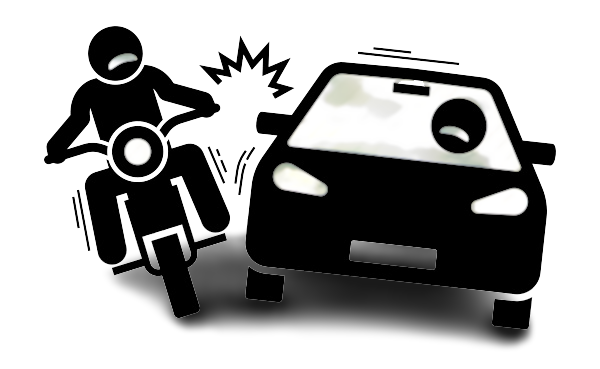
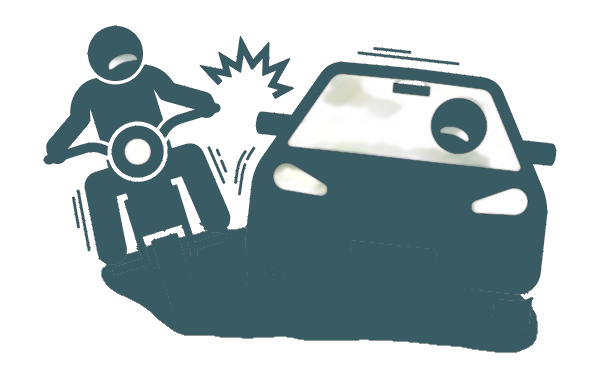
claim page added

diff --git a/src/app/claim-form/claim-form.component.html b/src/app/claim-form/claim-form.component.html
@@ -1,0 +1,152 @@
+<!-- ****************************************************** -->
+<div
+  class="services-area pt-120 pb-60"
+  data-background="assets/img/gallery/section_bg02.jpg"
+>
+  <ng-container>
+
+
+  </ng-container>
+ 
+  <section class="h-100 gradient-form">
+    <h3 class="container my-3 text-center">Claim Insurance</h3>
+    <div class="container py-2 h-100">
+      <div class="row d-flex justify-content-center align-items-center h-100">
+        <div class="col-xl-10">
+          <div class="card rounded-3 text-black">
+            <div class="row g-0">
+              <div class="col-lg-6">
+                <div class="card-body mx-md-4">
+                  <div class="text-center">
+                    <img
+                      src="assets/img/logo/Logo_bg.png"
+                      style="width: 85px"
+                      alt="logo"
+                    />
+                    <h4 class="mt-1 mb-5 pb-1">Enter Vehicle Details</h4>
+                  </div>
+
+                  <form #detailsForm="ngForm">
+                    <div class="d-flex flex-row align-items-center mb-4">
+                      <!-- <i class="fas fa-user fa-lg me-3 fa-fw"></i> -->
+                      <div class="form-outline flex-fill mb-0">
+                        <label class="form-label" for="type"
+                          >Reason for claim
+                          <strong class="text-danger">*</strong>
+                        </label>
+                        <div class="form-check">
+                          <input
+                            type="radio"
+                            name="type"
+                            id="Car"
+                            class="form-check-input"
+                            value="Car"
+                            required
+                          />
+                          <label for="Car" class="form-check-label">Accidental Damage</label>
+                        </div>
+                        <div class="form-check">
+                          <input
+                            type="radio"
+                            name="type"
+                            class="form-check-input"
+                            id="Car"
+                            value="Bike"
+                            required
+                          />
+                          <label for="Bike" class="form-check-label"
+                            >Theft</label
+                          >
+                        </div>
+                        <div class="form-check">
+                          <input
+                            type="radio"
+                            name="type"
+                            class="form-check-input"
+                            id="Car"
+                            value="Bike"
+                            required
+                          />
+                          <label for="Bike" class="form-check-label"
+                            >Natural Disaster</label
+                          >
+                        </div>
+                        <div class="form-check">
+                          <input
+                            type="radio"
+                            name="type"
+                            class="form-check-input"
+                            id="Car"
+                            value="Bike"
+                            required
+                          />
+                          <label for="Bike" class="form-check-label"
+                            >Third-Party Accidental Damage</label
+                          >
+                        </div>
+                      </div>
+                    </div>
+                    <!-- ---------------------------------------------->
+
+                    
+
+                    
+                    
+
+                    <div class="text-center pt-1 mb-5 pb-1">
+                      <button
+                        type="submit"
+                        class="login-btn text-white"
+                        [disabled]="detailsForm.invalid"
+                      >
+                        Claim Now
+                      </button>
+                    </div>
+                  </form>
+                </div>
+              </div>
+              <div class="col-lg-6 sec-div align-items-center">
+                <div class="hero__img">
+                  <img
+                    class="bike-img"
+                    src="assets/img/hero/crash.png"
+                    alt=""
+                  />
+                </div>
+                <!-- <div class="row" style="margin-top: 30px">
+                  <div class="col-md-12 text-sm-center service-block mt-30">
+                    <i class="fa fa-bolt" aria-hidden="true"></i>
+                    <h3>Instant Service</h3>
+                    <p>
+                      Never in all their history have men been able truly to
+                      conceive of the world as one: a single sphere, a globe,
+                      having the qualities of a globe.
+                    </p>
+                  </div>
+                  <div class="col-md-12 text-sm-center service-block">
+                    <i class="fa fa-check" aria-hidden="true"></i>
+                    <h3>Trustworthy</h3>
+                    <p>
+                      Never in all their history have men been able truly to
+                      conceive of the world as one: a single sphere, a globe,
+                      having the qualities of a globe.
+                    </p>
+                  </div>
+                  <div class="col-md-12 text-sm-center service-block">
+                    <i class="fa fa-leaf" aria-hidden="true"></i>
+                    <h3>Zero Hassle</h3>
+                    <p>
+                      Never in all their history have men been able truly to
+                      conceive of the world as one: a single sphere, a globe,
+                      having the qualities of a globe.
+                    </p>
+                  </div>
+                </div> -->
+              </div>
+            </div>
+          </div>
+        </div>
+      </div>
+    </div>
+  </section>
+</div>

diff --git a/src/app/claim-form/claim-form.component.css b/src/app/claim-form/claim-form.component.css
@@ -1,0 +1,91 @@
+.gradient-custom-2 {
+    /* fallback for old browsers */
+    background: #fccb90;
+  
+    /* Chrome 10-25, Safari 5.1-6 */
+    /* background: -webkit-linear-gradient(to right, #e7f6f2, #a5c9ca, #395b64, #2c3333); */
+    /* background: -webkit-linear-gradient(to right, #a5c9ca, #395b64); */
+    /* background: -webkit-linear-gradient(to right, #e7f6f2, #a5c9ca, #395b64, #2c3333); */
+    background: -webkit-linear-gradient(to right, #395b64, #2c3333);
+  
+    /* W3C, IE 10+/ Edge, Firefox 16+, Chrome 26+, Opera 12+, Safari 7+ */
+    /* background: linear-gradient(to right, #a5c9ca, #395b64); */
+    background: linear-gradient(to right, #395b64, #2c3333);
+    /* background: linear-gradient(to right, #a5c9ca, #2c3333); */
+    /* background: linear-gradient(to right, #e7f6f2, #a5c9ca); */
+    }
+  
+    @media (min-width: 768px) {
+    /* .gradient-form {
+    height: 100vh !important;
+    } */
+    }
+    @media (min-width: 769px) {
+    .gradient-custom-2 {
+    border-top-right-radius: .3rem;
+    border-bottom-right-radius: .3rem;
+    }
+    }
+  
+    .login-btn{
+        border: 5px solid #fff;
+        width: 100%;
+        height: 60px;
+        background: #395B64;
+        line-height: 1;
+        text-align: center;
+        color: #fff;
+        display: block;
+        padding: 15px;
+        border-radius: 0px;
+        text-transform: uppercase;
+        line-height: 22px;
+        font-size: 14px;
+        text-decoration: none;
+    }
+    form{
+        font-family: "Rubik";
+    }
+  
+    .d-flex {
+      display: flex !important;
+      justify-content: space-evenly;
+  }
+  .bike-img{
+    margin-left: 30px;
+    margin-top: 75px;
+    width: 480px;
+  }
+  @media screen and (max-width: 600px) {
+    .sec-div {
+      display: none;
+    }
+  }
+  
+  .service-block{
+    padding-right: 30px;
+  }
+  
+  .search-from >a{
+      border: 5px solid #fff;
+      width: 100%;
+      height: 60px;
+      background: #395B64;
+      line-height: 1;
+      text-align: center;
+      color: #fff;
+      display: block;
+      padding: 15px;
+      border-radius: 0px;
+      text-transform: uppercase;
+      line-height: 22px;
+      font-size: 14px;
+      text-decoration: none;
+  }
+  
+  .border-danger {
+    border-left: 5px solid  #395B64 !important;
+  }
+  b{
+    color:black;
+  }

diff --git a/src/app/app-routing.module.ts b/src/app/app-routing.module.ts
@@ -7,6 +7,7 @@ import { PolicyComponent } from './admin/policy/policy.component';
 import { UsersComponent } from './admin/users/users.component';
 import { BuyPageComponent } from './buy-page/buy-page.component';
 import { CheckoutComponent } from './checkout/checkout.component';
+import { ClaimFormComponent } from './claim-form/claim-form.component';
 import { AuthGuard } from './guard/auth.guard';
 import { HomeComponent } from './home/home.component';
 import { LoginComponent } from './login/login.component';
@@ -36,7 +37,8 @@ const routes: Routes = [
   { path:'admin/claim',component:ClaimComponent},
   { path:'admin/payment',component:PaymentComponent},
   { path:'admin/policy',component:PolicyComponent},
-  { path:'admin/users',component:UsersComponent}
+  { path:'admin/users',component:UsersComponent},
+  { path:'claim-form',component:ClaimFormComponent}
   
 
 ];

diff --git a/src/app/buy-page/buy-page.component.html b/src/app/buy-page/buy-page.component.html
@@ -4,7 +4,7 @@
   data-background="assets/img/gallery/section_bg02.jpg"
 >
   <ng-container *ngIf="isVehicle">
-    <h3 class="container">Already Registered Vehicles</h3>
+    <h3 class="container text-center">Previously Registered Vehicles</h3>
     <section class="h-100 gradient-form mt-30" *ngFor="let v of vehicleDetails">
       <div class="container py-2 h-100">
         <div class="row d-flex justify-content-center align-items-center h-100">
@@ -48,7 +48,7 @@
       </div>
     </section>
   </ng-container>
-  <h3 class="container my-3">New Registration</h3>
+  <h3 class="container text-center my-3">New Registration</h3>
   <section class="h-100 gradient-form">
     <div class="container py-2 h-100">
       <div class="row d-flex justify-content-center align-items-center h-100">

diff --git a/src/app/claim-form/claim-form.component.spec.ts b/src/app/claim-form/claim-form.component.spec.ts
@@ -1,0 +1,23 @@
+import { ComponentFixture, TestBed } from '@angular/core/testing';
+
+import { ClaimFormComponent } from './claim-form.component';
+
+describe('ClaimFormComponent', () => {
+  let component: ClaimFormComponent;
+  let fixture: ComponentFixture<ClaimFormComponent>;
+
+  beforeEach(async () => {
+    await TestBed.configureTestingModule({
+      declarations: [ ClaimFormComponent ]
+    })
+    .compileComponents();
+
+    fixture = TestBed.createComponent(ClaimFormComponent);
+    component = fixture.componentInstance;
+    fixture.detectChanges();
+  });
+
+  it('should create', () => {
+    expect(component).toBeTruthy();
+  });
+});

diff --git a/src/app/app.module.ts b/src/app/app.module.ts
@@ -20,6 +20,7 @@ import { ClaimComponent } from './admin/claim/claim.component';
 import { PaymentComponent } from './admin/payment/payment.component';
 import { PolicyComponent } from './admin/policy/policy.component';
 import { UsersComponent } from './admin/users/users.component';
+import { ClaimFormComponent } from './claim-form/claim-form.component';
 
 
 @NgModule({
@@ -40,7 +41,8 @@ import { UsersComponent } from './admin/users/users.component';
     ClaimComponent,
     PaymentComponent,
     PolicyComponent,
-    UsersComponent
+    UsersComponent,
+    ClaimFormComponent
   ],
   imports: [
     BrowserModule,

diff --git a/src/app/claim-form/claim-form.component.ts b/src/app/claim-form/claim-form.component.ts
@@ -1,0 +1,15 @@
+import { Component, OnInit } from '@angular/core';
+
+@Component({
+  selector: 'app-claim-form',
+  templateUrl: './claim-form.component.html',
+  styleUrls: ['./claim-form.component.css']
+})
+export class ClaimFormComponent implements OnInit {
+
+  constructor() { }
+
+  ngOnInit(): void {
+  }
+
+}
